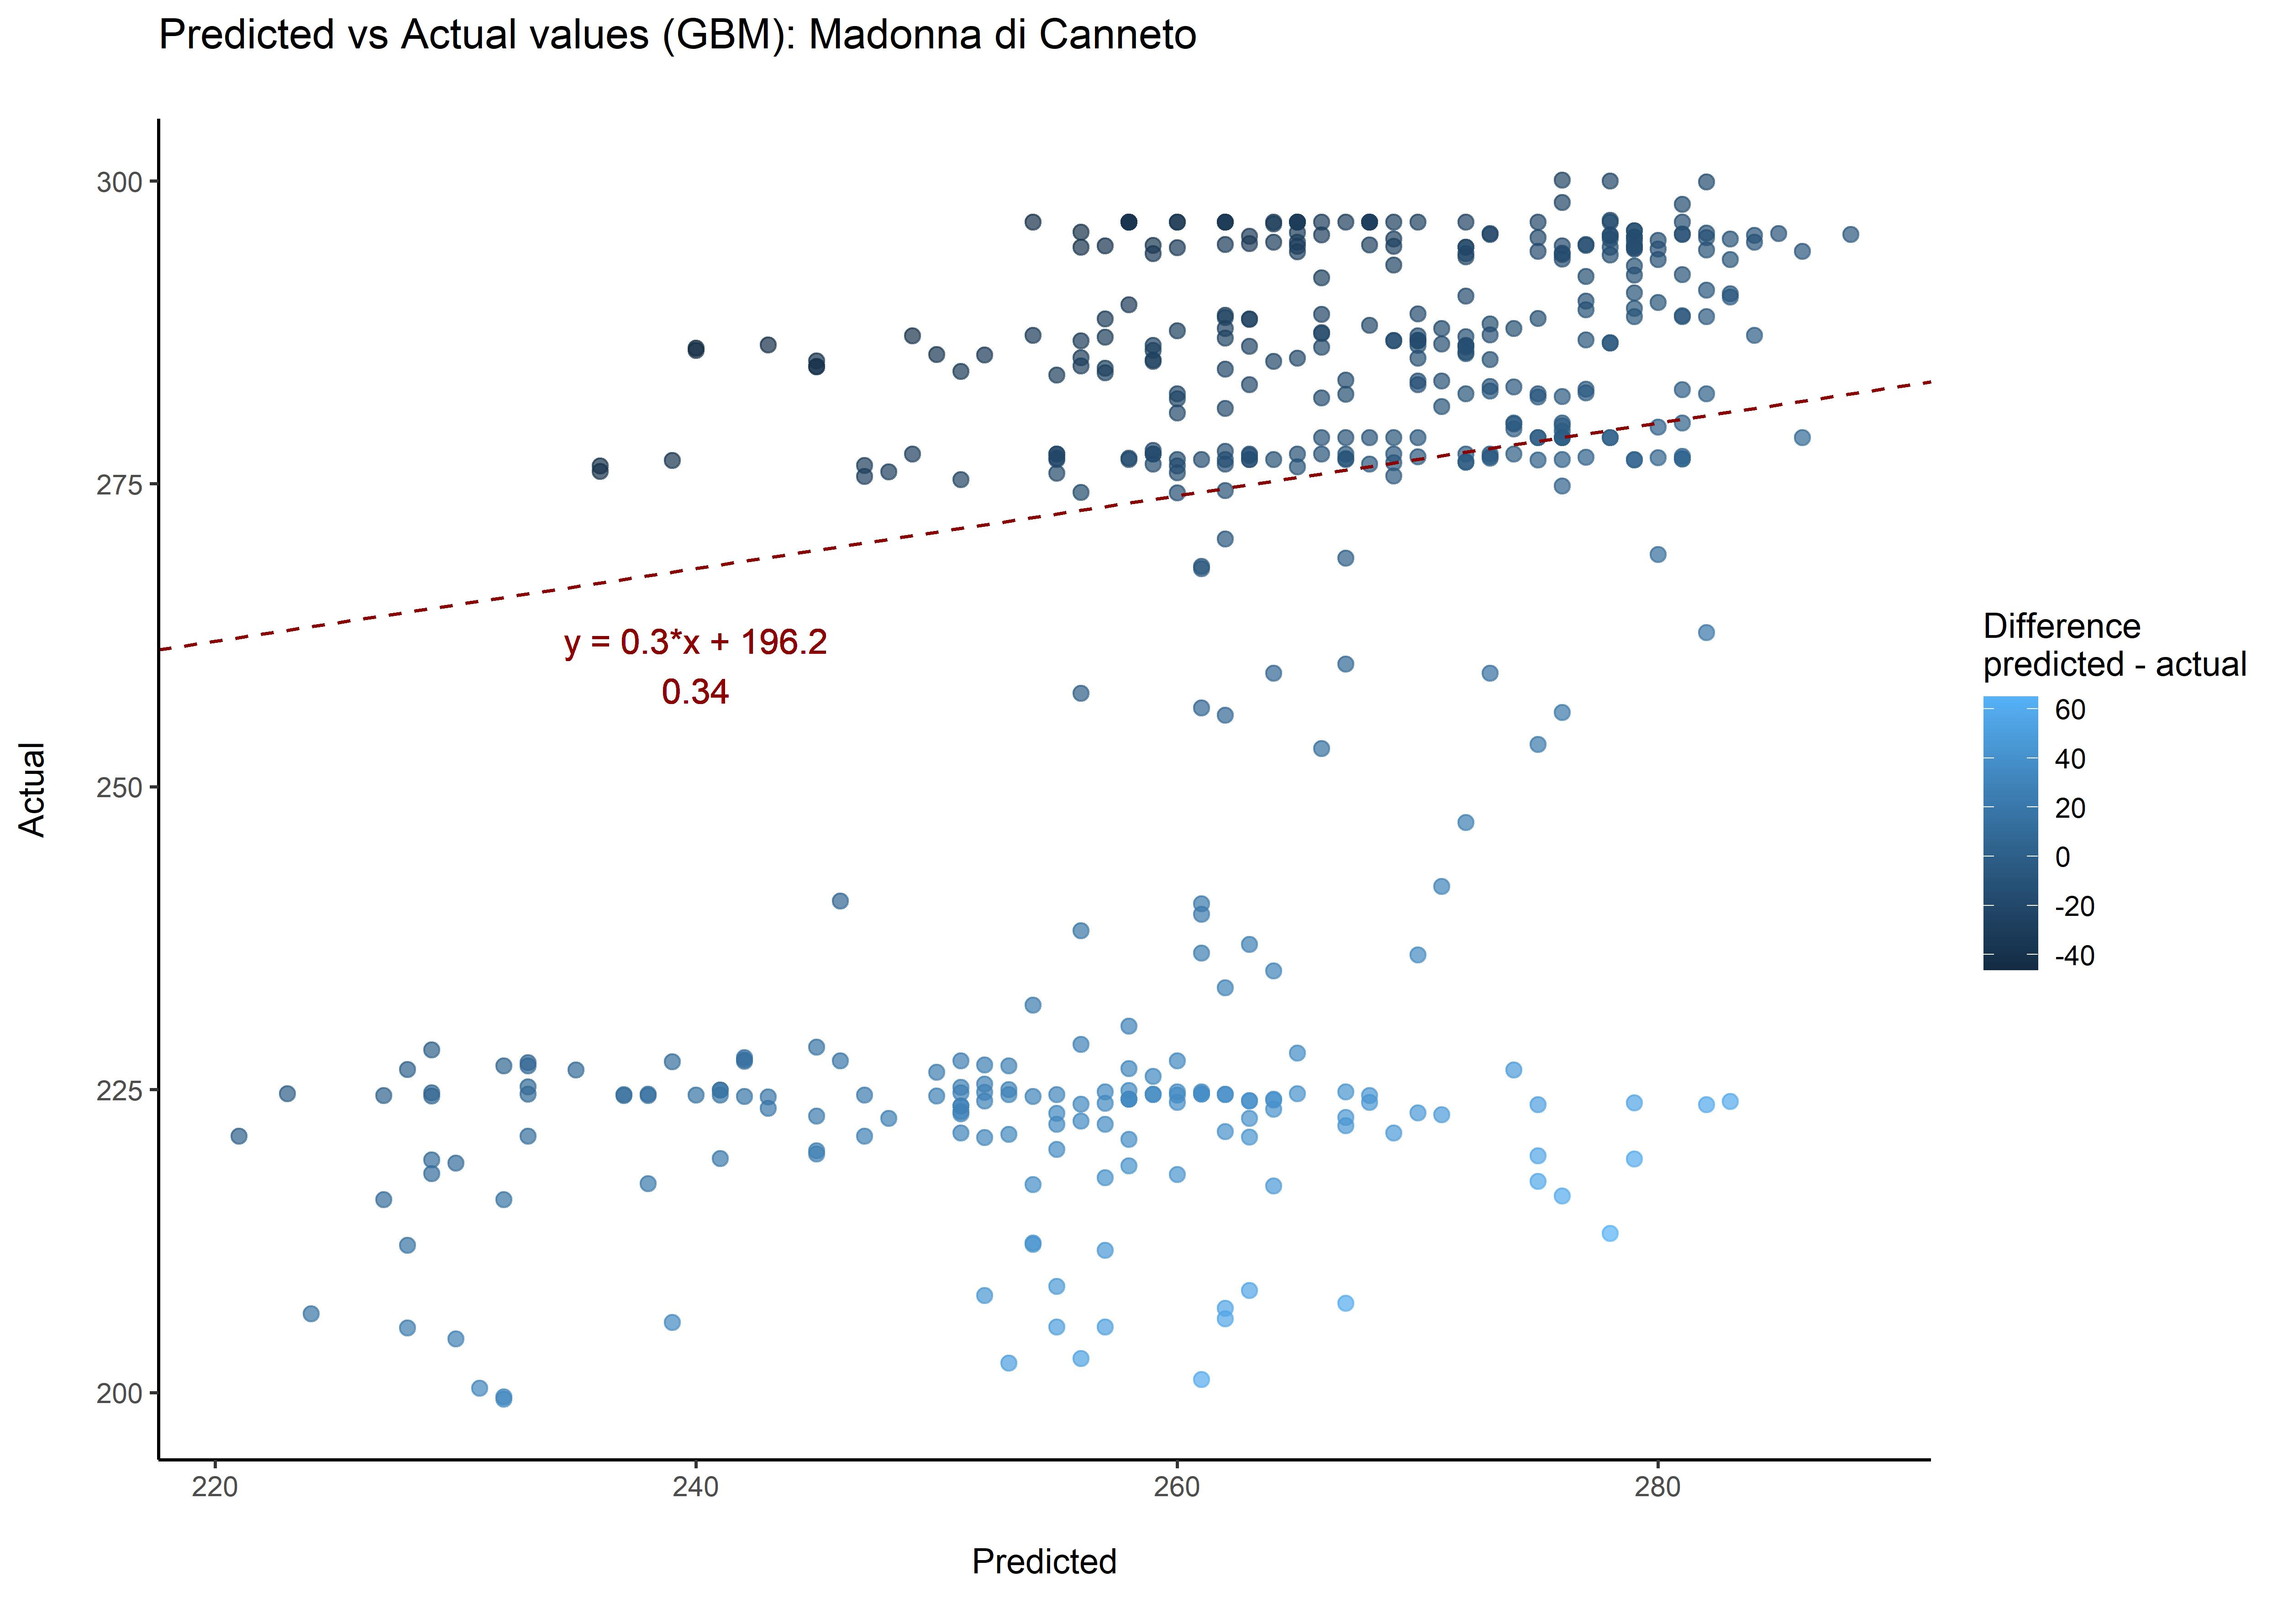
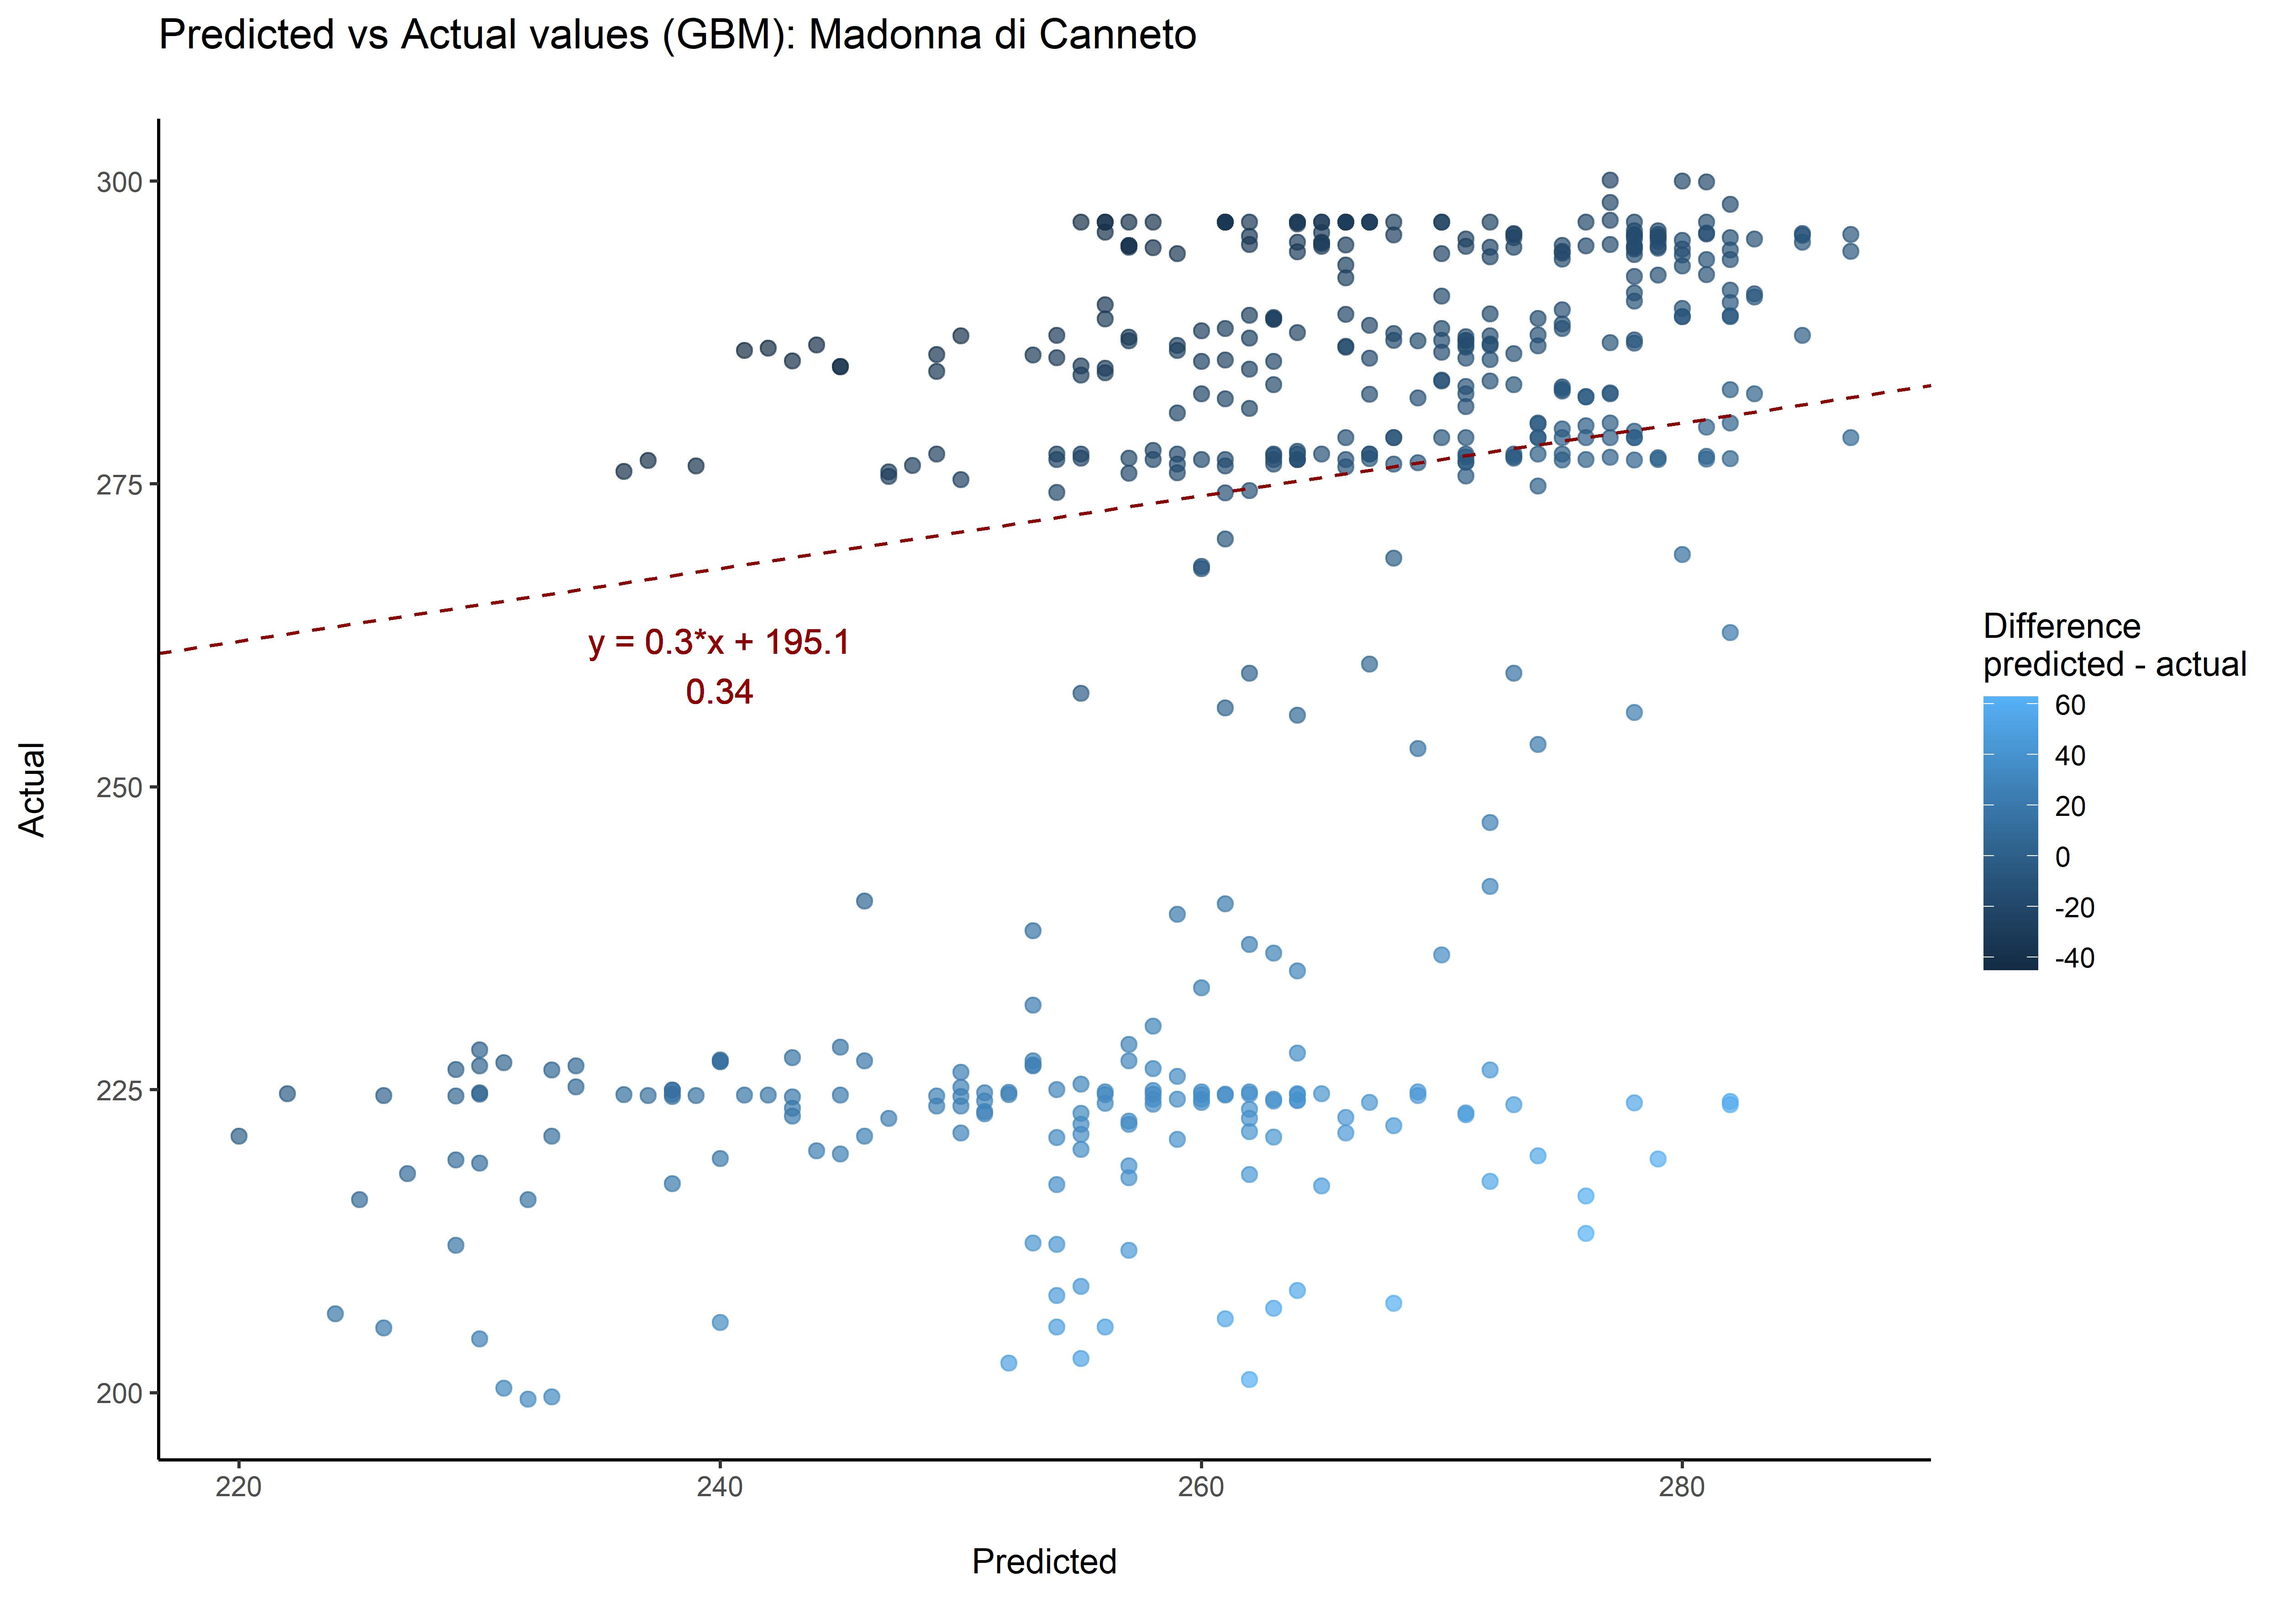
edited text and graphs for models - canneto

diff --git a/docs/2.md b/docs/2.md
@@ -31,15 +31,17 @@ We also plotted predicted vs actual values for tbats.
 
 ##### Gradient Boost Machine 
 
-GBM model resulted in an RMSE of 26.05 L/s. 
+We compared GBM error results between the five different timeseries with changing thresholds, and concluded that the best fit was for the original timseries, with no changes to the minimum rainfall values. 
 
-The following graph shows the relationship between predicted and actual target values. 
+We then compared RMSE results between the original timeseries and all its features, and the original timseries with feature selection made with stepwise regression. The former GBM model resulted in an RMSE of 26.05 L/s, while the latter resulted in 25.97 L/s. We thus chose the second model. 
 
-![gbm_act_pred](https://user-images.githubusercontent.com/43357858/108827719-3b12e300-75c6-11eb-9acb-d78da5a5fdca.jpg)
+The following graph shows the relationship between predicted and actual target values of the best model. 
 
-The model showed that temperature has the greatest influence over flow rate, followed by the 8-day time lag of rainfall. 
+![gbm_act_pred](https://user-images.githubusercontent.com/43357858/108829952-179d6780-75c9-11eb-8271-834b9b4456b1.jpg)
 
-![rel_infl gbm](https://user-images.githubusercontent.com/43357858/108828497-37339080-75c7-11eb-8872-ee9b9101533b.jpg).
+The model showed that temperature has the greatest influence over flow rate (50%), followed by the 8-day time lag of rainfall. 
+
+![rel_infl gbm](https://user-images.githubusercontent.com/43357858/108829984-1f5d0c00-75c9-11eb-9920-d2bbc18bc9cc.jpg)
 
 ## 2.3 River
 
